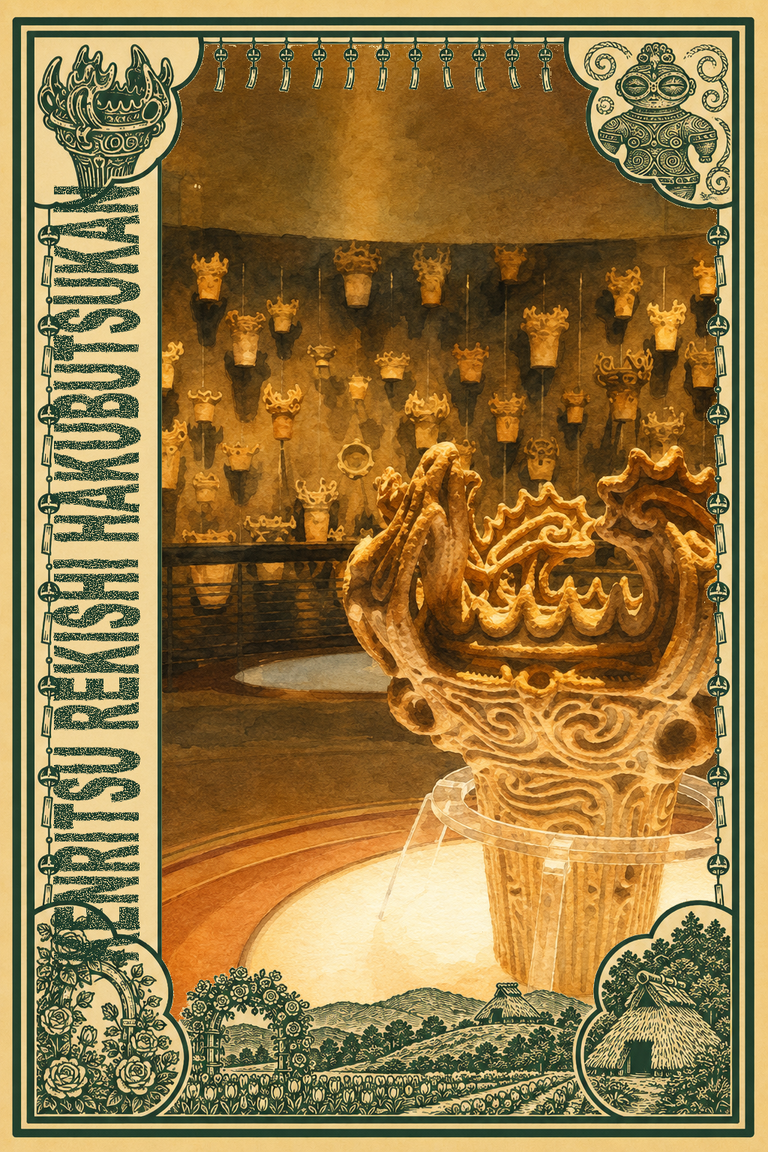
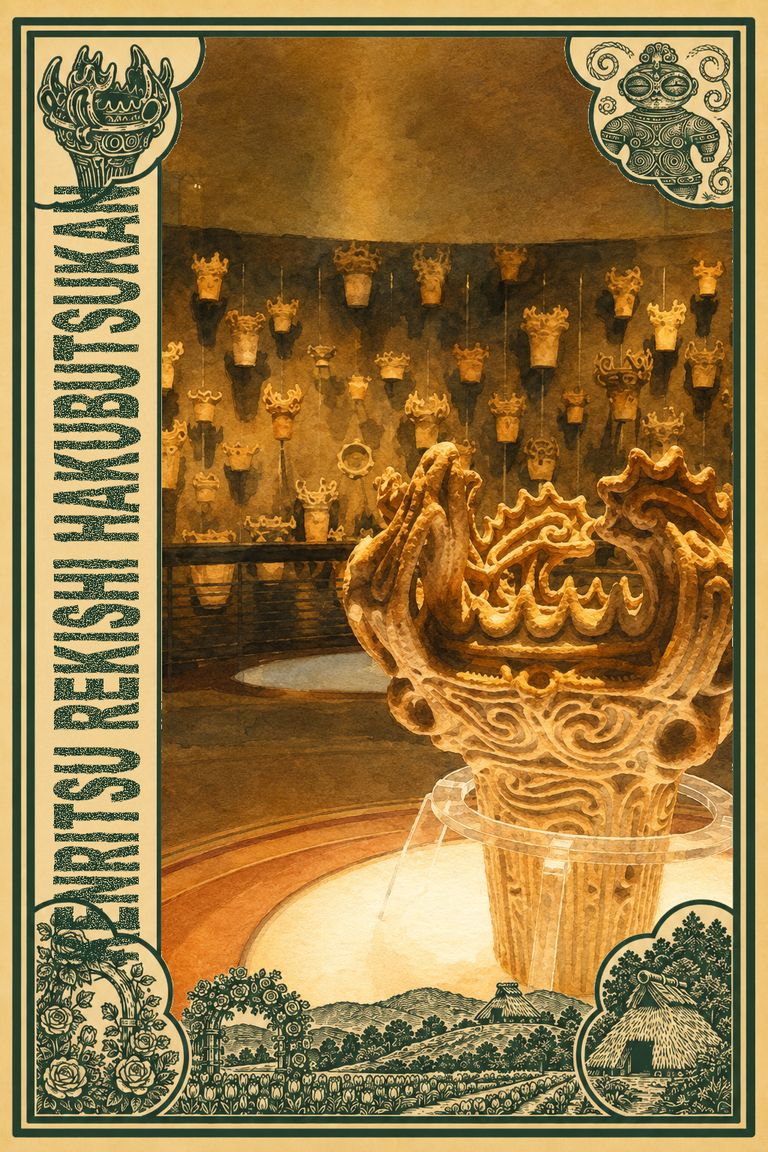
川西フレーム風鈴除去: frame_kawanishi風鈴なし版に差し替え＋全14枚(4スポット＋季節)を元アートで再合成（上まで絵・風鈴完全になし・sw v172）

Changed region(s): [[0.0312, 0.0312, 1.0, 0.9688], [0.0312, 0.0312, 0.25, 0.1875]]

diff --git a/sw.js b/sw.js
@@ -13,7 +13,7 @@
  */
 "use strict";
 
-var CACHE_VERSION = "v171";
+var CACHE_VERSION = "v172";
 var CACHE_NAME = "nagaoka-tanken-" + CACHE_VERSION;
 
 // SW自身の場所を基準に相対パスで解決（GitHub Pagesのサブパス配下でも正しく動くように）
